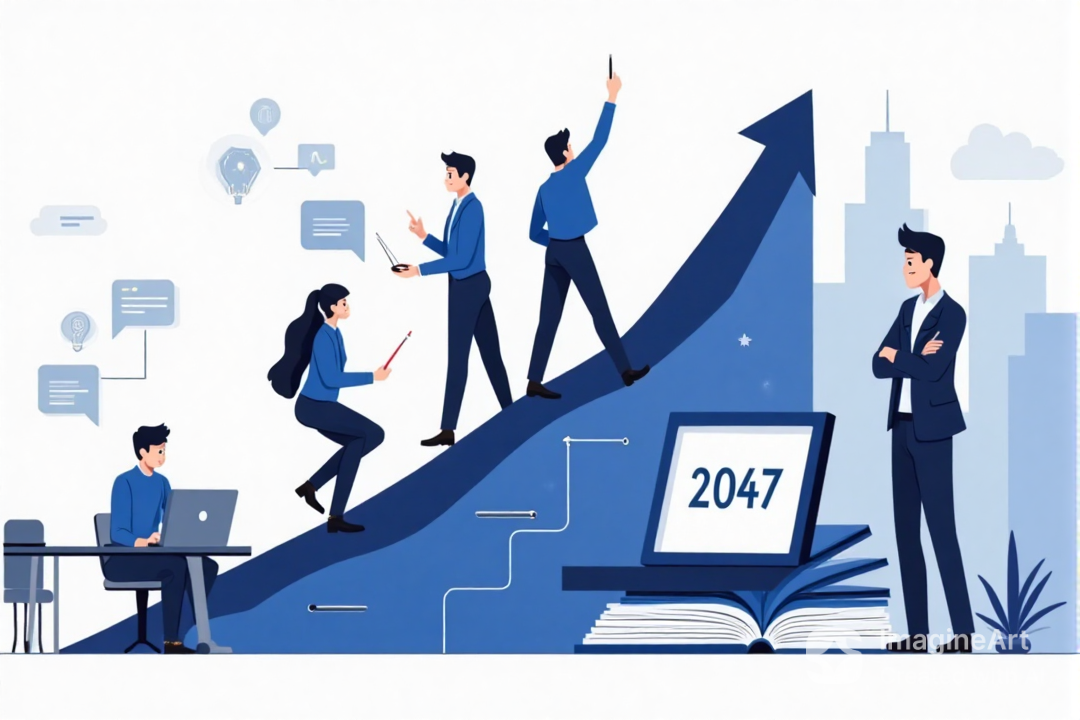
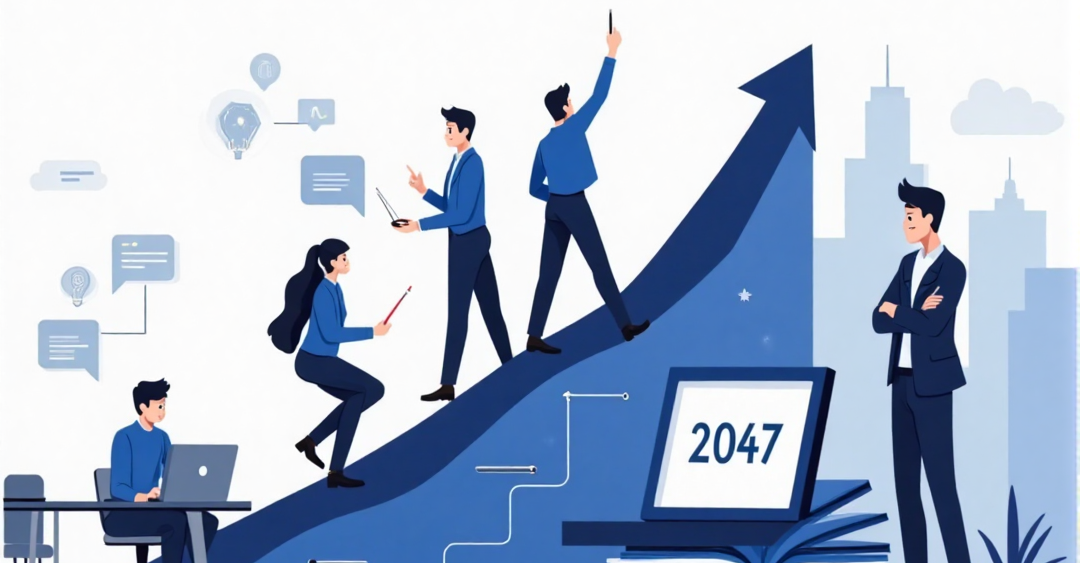
fixed bugs for home page color change and put check on each question for minimum characters

diff --git a/components/round1/QuestionCard.tsx b/components/round1/QuestionCard.tsx
@@ -17,14 +17,41 @@ interface QuestionCardProps {
   currentQuestionIndex: number;
   answers: Record<string, string>;
   onAnswerChange: (questionId: string, answer: string) => void;
+  setIsCurrentQuestionValid: (valid: boolean) => void;
 }
 
 const QuestionCard: React.FC<QuestionCardProps> = ({
   questionData,
   currentQuestionIndex,
   answers,
-  onAnswerChange
+  onAnswerChange,
+  setIsCurrentQuestionValid
 }) => {
+
+  const [errors, setErrors] = React.useState<Record<string, string>>({});
+
+  const validateAnswer = (questionId: string, value: string) => {
+    const isValid = value.trim().length >= 150;
+
+    setErrors((prev) => {
+      const updated = { ...prev };
+      if (!isValid) {
+        updated[questionId] = 'Your answer must be at least 150 characters long.';
+      } else {
+        delete updated[questionId];
+      }
+      return updated;
+    });
+  };
+
+  React.useEffect(() => {
+    const isValid = questionData.questions.every((q) => {
+      const value = answers[q.id]?.trim() || '';
+      return value.length >= 150;
+    });
+    setIsCurrentQuestionValid(isValid);
+  }, [answers, questionData.questions, setIsCurrentQuestionValid]);
+
   return (
     <div className="space-y-8 w-full">
   {/* Header */}
@@ -64,12 +91,21 @@ const QuestionCard: React.FC<QuestionCardProps> = ({
             rows={4}
             value={answers[question.id] || ''}
             onChange={(e) => onAnswerChange(question.id, e.target.value)}
-            className="w-full border-2 border-gray-200 rounded-2xl p-4 text-gray-800 focus:outline-none focus:border-blue-500 focus:ring-4 focus:ring-blue-500/10 transition-all resize-none placeholder-gray-400 bg-white shadow-sm hover:shadow-md"
-          />
+            onBlur={(e) =>
+                  validateAnswer(question.id, e.target.value)
+                }
+className={`w-full border-2 ${
+                  errors[question.id] ? 'border-red-500' : 'border-gray-200'
+                } rounded-2xl p-4 text-gray-800 focus:outline-none focus:border-blue-500 focus:ring-4 focus:ring-blue-500/10 transition-all resize-none placeholder-gray-400 bg-white shadow-sm hover:shadow-md`}          />
           <div className="absolute bottom-3 right-3 text-xs text-gray-400">
             {answers[question.id]?.length || 0} characters
           </div>
         </div>
+        {errors[question.id] && (
+              <p className="text-sm text-red-600 mt-1">
+                {errors[question.id]}
+              </p>
+            )}
       </div>
     ))}
   </div>

diff --git a/components/round1/NavigationButtons.tsx b/components/round1/NavigationButtons.tsx
@@ -1,4 +1,5 @@
 import React from 'react';
+import { useToast } from '@/components/Toast'; // if not already imported
 
 interface NavigationButtonsProps {
   currentQuestionIndex: number;
@@ -8,6 +9,8 @@ interface NavigationButtonsProps {
   onBack: () => void;
   onNext: () => void;
   onSubmit: () => void;
+  isCurrentQuestionValid: boolean;
+
 }
 
 const NavigationButtons: React.FC<NavigationButtonsProps> = ({
@@ -17,9 +20,20 @@ const NavigationButtons: React.FC<NavigationButtonsProps> = ({
   setIsSubmitted,
   onBack,
   onNext,
-  onSubmit
+  onSubmit,
+  isCurrentQuestionValid
+
 }) => {
+  const { showToast } = useToast(); // use toast to show message
   const isLastQuestion = currentQuestionIndex === totalQuestions - 1;
+
+  const handleNextClick = () => {
+    if (!isCurrentQuestionValid) {
+      showToast('error', 'Please fill all answers before proceeding', 3000);
+      return;
+    }
+    onNext(); // only call if valid
+  };
 
   return (
     <div className="flex justify-between pt-6">
@@ -30,18 +44,20 @@ const NavigationButtons: React.FC<NavigationButtonsProps> = ({
       >
         Back
       </button>
-      
+
       <div className="flex gap-3">
         {!isLastQuestion && (
           <button
-            onClick={onNext}
+            onClick={handleNextClick}
             disabled={isSubmitted}
-            className="px-6 py-3 rounded-2xl bg-gradient-to-r from-blue-600 to-blue-700 text-white hover:from-blue-700 hover:to-blue-800 font-semibold transition-all duration-200 shadow-lg shadow-blue-600/25 hover:shadow-xl hover:shadow-blue-600/30 hover:scale-[1.02]"
-          >
+className={`px-6 py-3 rounded-2xl text-white font-semibold transition-all duration-200 shadow-lg hover:shadow-xl hover:scale-[1.02]
+              ${!isCurrentQuestionValid ? 'bg-gray-300 cursor-not-allowed' : 'bg-gradient-to-r from-blue-600 to-blue-700 hover:from-blue-700 hover:to-blue-800'}
+              ${isSubmitted ? 'opacity-50 cursor-not-allowed' : ''}
+            `}          >
             Next
           </button>
         )}
-        
+
         {isLastQuestion && (
           <button
             onClick={onSubmit}

diff --git a/components/round1/Welcome-Page/HeroPanel.tsx b/components/round1/Welcome-Page/HeroPanel.tsx
@@ -7,12 +7,14 @@ import { FC } from 'react';
 const HeroPanel: FC = () => {
   return (
     <section
-      className="text-white py-24 md:py-32 relative overflow-hidden"
+      className="relative text-white py-24 md:py-32 overflow-hidden"
       style={{
-        backgroundImage: 'linear-gradient(to bottom right, #075985, #701a75)', // primary-800 to secondary-900
+        backgroundImage: 'linear-gradient(to bottom right,rgba(33, 109, 223, 1), #002B80)', // primary-800 to secondary-900
       }}
     >
-      {/* Background Blobs */}
+      {/* <div className="absolute inset-0 bg-black bg-opacity-50 z-0"></div> */}
+      {/* <div className="relative z-10"> */}
+
       <div className="absolute inset-0 opacity-10 pointer-events-none">
         <div className="absolute top-0 right-0 w-1/2 h-full">
           <div className="w-full h-full bg-gradient-to-r from-blue-300 to-purple-400 rounded-full blur-3xl transform -translate-y-1/4" />
@@ -21,6 +23,8 @@ const HeroPanel: FC = () => {
           <div className="w-full h-full bg-gradient-to-r from-purple-400 to-pink-300 rounded-full blur-3xl transform translate-y-1/4" />
         </div>
       </div>
+      {/* </div> */}
+      {/* Background Blobs */}
 
       {/* Main Content */}
       <div className="container mx-auto px-4 relative z-10">
@@ -50,7 +54,7 @@ const HeroPanel: FC = () => {
             transition={{ delay: 0.6, duration: 0.6 }}
           >
             <img
-              className="w-full h-64 object-cover rounded-xl mx-auto"
+              className="w-[620px] h-64 bg-center rounded-xl mx-auto"
               src="/Picture5.png"
               alt="futuristic AI lab with diverse experts collaborating"
             />

diff --git a/app/(root)/round/1/page.tsx b/app/(root)/round/1/page.tsx
@@ -33,6 +33,7 @@ const Round1Content: React.FC = () => {
   const [isSubmitted, setIsSubmitted] = useState(false);
   const [roleTitle, setRoleTitle] = useState('');
   const [totalQuestions, setTotalQuestions] = useState(0);
+  const [isCurrentQuestionValid, setIsCurrentQuestionValid] = useState(false);
 
   const cleanUp = () => {
     removeStorageItem('selfDefinedTimeline');
@@ -234,6 +235,8 @@ const Round1Content: React.FC = () => {
       />
   </div>
 
+
+
   return (
     <div className="bg-gray-100 min-h-screen flex items-center justify-center p-6">
       <TimerModal isOpen={isModalOpen} onTimelineSet={handleTimelineSet} />
@@ -255,6 +258,7 @@ const Round1Content: React.FC = () => {
               currentQuestionIndex={currentQuestionIndex}
               answers={answers}
               onAnswerChange={handleAnswerChange}
+              setIsCurrentQuestionValid={setIsCurrentQuestionValid}
             />
             <NavigationButtons
               currentQuestionIndex={currentQuestionIndex}
@@ -264,6 +268,7 @@ const Round1Content: React.FC = () => {
               onSubmit={handleSubmit}
               onBack={handleBack}
               onNext={handleNext}
+              isCurrentQuestionValid={isCurrentQuestionValid}
             />
           </>
         )}

diff --git a/components/round1/Welcome-Page/AIThinkingPartner.tsx b/components/round1/Welcome-Page/AIThinkingPartner.tsx
@@ -19,7 +19,7 @@ const AIThinkingPartner: FC = () => {
             <h2 className="text-2xl md:text-3xl font-bold text-gray-800 mb-6">
               AI is Your Thinking Partner
             </h2>
-            <div className="h-1 w-20 bg-indigo-500 mb-6"></div>
+            <div className="h-1 w-20 bg-blue-500 mb-6"></div>
             <div className="prose max-w-none">
               <p className="text-gray-600 mb-4">
                 You can — and should — use tools like UX Pilot to:
@@ -54,7 +54,7 @@ const AIThinkingPartner: FC = () => {
               viewport={{ once: true }}
             >
               <Image
-                src="/Img2HeroSection.png"
+                src="/Img2HeroSection1.png"
                 alt="human and AI collaboration"
                 width={600}
                 height={400}

diff --git a/components/round1/Welcome-Page/HowToApproach.tsx b/components/round1/Welcome-Page/HowToApproach.tsx
@@ -35,7 +35,7 @@ export default function HowToApproach() {
         <h2 className="text-2xl md:text-3xl font-bold text-gray-800 mb-6">
           How to Approach This Round
         </h2>
-        <div className="h-1 w-20 bg-indigo-500 mb-8" />
+        <div className="h-1 w-20 bg-blue-500 mb-8" />
 
         <motion.ul
           className="space-y-6 text-gray-600"
@@ -50,7 +50,7 @@ export default function HowToApproach() {
               className="flex items-start"
               variants={itemVariants}
             >
-              <CheckCircle className="text-indigo-500 mt-1 mr-3 w-6 h-6 flex-shrink-0" />
+              <CheckCircle className="text-blue-500 mt-1 mr-3 w-6 h-6 flex-shrink-0" />
               <span>{point}</span>
             </motion.li>
           ))}

diff --git a/components/round1/Welcome-Page/KeySection.tsx b/components/round1/Welcome-Page/KeySection.tsx
@@ -18,7 +18,7 @@ const keySections: KeySection[] = [
     title: 'We are not hiring you for an internship.',
     desc:
       "You are an expert who would help us. You're Reframing How employees grow. You're not here to complete tasks. You're here to design behavior — to choreograph how people reflect, grow, and change.",
-    img: '/herocar1.png',
+    img: '/Test1.png',
     action: 'Learn more',
   },
   {
@@ -26,7 +26,7 @@ const keySections: KeySection[] = [
     title: 'Your education is your superpower',
     desc:
       "Whether you're trained in Fine Arts, Design, or Psychology — you have the potential inside you and you will discover it by the end of this round.",
-    img: '/herocar1.1.png',
+    img: '/Test2.png',
     action: 'Discover more',
   },
   {

diff --git a/components/round1/Welcome-Page/ThinkingWithAi.tsx b/components/round1/Welcome-Page/ThinkingWithAi.tsx
@@ -46,7 +46,7 @@ const ThinkWithAI: FC = () => {
             </motion.h2>
 
             <motion.div
-              className="h-1 w-20 bg-[#6366F1] mb-6"
+              className="h-1 w-20 bg-blue-500 mb-6"
               variants={fadeUpVariant}
             />
 
@@ -85,7 +85,7 @@ const ThinkWithAI: FC = () => {
           >
             <img
               className="rounded-2xl shadow-lg object-cover max-h-[22rem] w-full"
-              src="/Image1HeroSection.png"
+              src="/Image1HeroSection1.png"
               alt="person working with AI visualization"
             />
           </motion.div>

diff --git a/app/(root)/round/1/manifesto/page.tsx b/app/(root)/round/1/manifesto/page.tsx
@@ -169,7 +169,7 @@ export default function ManifestoPage() {
               </div>
             ) : (
               <div>
-                <h2 className="flex justify-center text-lg font-bold text-gray-800 mb-4">Round 1 Completed!!🎉🤩</h2>
+                <h2 className="flex justify-center text-lg font-bold text-gray-800 mb-[-15px]">Round 1 Completed!!🎉🤩</h2>
                 <div className="my-6 text-center space-y-2">
                   <p className="text-blue-600 text-xl font-semibold">Thanks for staying sharp.</p>
                   <p className="text-gray-700 text-sm sm:text-base">

diff --git a/components/Footer.tsx b/components/Footer.tsx
@@ -63,7 +63,7 @@ const Footer = () => {
                 <i className="ri-linkedin-fill" aria-hidden="true"></i>
               </Link>
               <Link
-                href="https://www.instagram.com/deepthoughtedutechventures?igsh=bnJtdWxjNGJyMmFv"
+                href="https://www.instagram.com/dtgrowthteams/"
                 target="_blank"
                 aria-label="Follow us on Instagram"
                 className="text-2xl text-gray-300 hover:text-pink-400 transition-colors"

diff --git a/app/api/v1/round/1/manifesto/route.ts b/app/api/v1/round/1/manifesto/route.ts
@@ -66,7 +66,9 @@ export async function POST(req: NextRequest) {
             userEmail: user_email,
             negative_prompting: q1,
             prompt_engineering: q2,
-            growth_manifesto: q3
+            growth_manifesto: q3,
+            processed:false,
+            submitted_at:new Date()
         });
 
         const currentUserRole = await db.collection("users").findOne({ _id: toObjectId(userId) },
